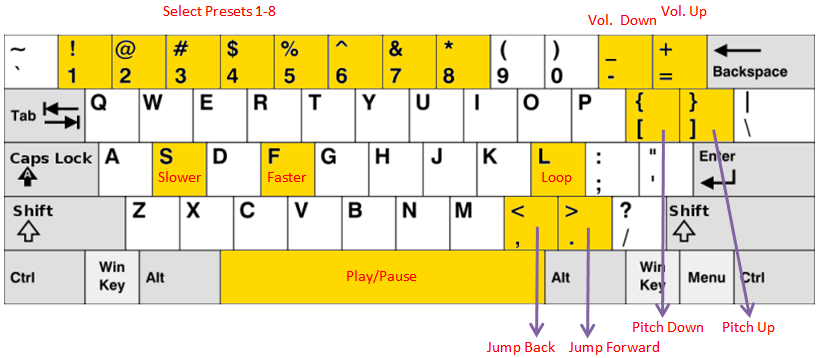
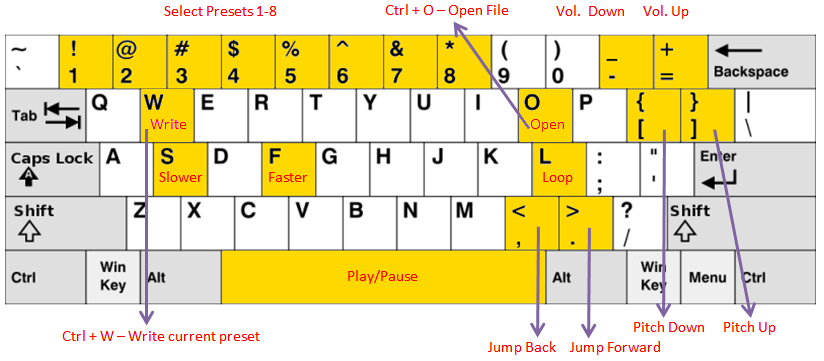
Added an immediate preset write use-case and also keyboard shortcut (Ctrl + W)

diff --git a/PracticeSharpApp/UI/MainForm.cs b/PracticeSharpApp/UI/MainForm.cs
@@ -340,15 +340,14 @@ namespace BigMansStuff.PracticeSharp.UI
             }
             // [ Pitch Down
             else if (!e.Control && !e.Alt && !e.Shift && e.KeyCode == Keys.OemOpenBrackets)
-            {
-                // 8 = 1 semi-tone (8/96 = 1/12)
-                pitchTrackBar.Value =  Math.Max(pitchTrackBar.Value - 8, pitchTrackBar.Minimum);
+            {              
+                pitchTrackBar.Value = Math.Max(pitchTrackBar.Value - TicksPerSemitone, pitchTrackBar.Minimum);
                 e.Handled = true;
             }
             // ] Pitch Up
             else if (!e.Control && !e.Alt && !e.Shift && e.KeyCode == Keys.OemCloseBrackets)
             {
-                pitchTrackBar.Value = Math.Min(pitchTrackBar.Value + 8, pitchTrackBar.Maximum);
+                pitchTrackBar.Value = Math.Min(pitchTrackBar.Value + TicksPerSemitone, pitchTrackBar.Maximum);
 
                 e.Handled = true;
             }
@@ -431,6 +430,12 @@ namespace BigMansStuff.PracticeSharp.UI
                 openFileButton.PerformClick();
                 e.Handled = true;
             }
+            // Ctrl + W - Immediate write of current preset
+            else if (e.Control && !e.Alt && !e.Shift && e.KeyCode == Keys.W)
+            {
+                ImmeidatelyWriteCurrentPreset();
+                e.Handled = true;
+            }
             // Space - Pause/Play
             else if (!e.Control && !e.Alt && !e.Shift && e.KeyCode == Keys.Space)
             {
@@ -449,7 +454,7 @@ namespace BigMansStuff.PracticeSharp.UI
                 aboutMenuItem.PerformClick();
                 e.Handled = true;
             }
-            // ALT+CTRL P - Toggle visibility of Time Stretch Profile' UI Controls
+            // ALT + CTRL P - Toggle visibility of Time Stretch Profile' UI Controls
             else if (e.Control && e.Alt && !e.Shift && e.KeyCode == Keys.P)
             {
                 timeStretchProfileLabel.Visible = !timeStretchProfileLabel.Visible;
@@ -694,20 +699,7 @@ namespace BigMansStuff.PracticeSharp.UI
                         presetControl.ChangeDescription();
                     }
 
-                    // Update the preset data with the values from the selected preset
-                    presetControl.PresetData.Tempo = m_practiceSharpLogic.Tempo;
-                    presetControl.PresetData.Pitch = m_practiceSharpLogic.Pitch;
-                    presetControl.PresetData.Volume = m_practiceSharpLogic.Volume;
-                    presetControl.PresetData.LoEqValue = m_practiceSharpLogic.EqualizerLoBand;
-                    presetControl.PresetData.MedEqValue = m_practiceSharpLogic.EqualizerMedBand;
-                    presetControl.PresetData.HiEqValue = m_practiceSharpLogic.EqualizerHiBand;
-                    presetControl.PresetData.CurrentPlayTime = m_practiceSharpLogic.CurrentPlayTime;
-                    presetControl.PresetData.StartMarker = m_practiceSharpLogic.StartMarker;
-                    presetControl.PresetData.EndMarker = m_practiceSharpLogic.EndMarker;
-                    presetControl.PresetData.Cue = m_practiceSharpLogic.Cue;
-                    presetControl.PresetData.Loop = m_practiceSharpLogic.Loop;
-                    presetControl.PresetData.Description = presetControl.PresetDescription;
-                    presetControl.PresetData.TimeStretchProfile = m_practiceSharpLogic.TimeStretchProfile;
+                    UpdatePresetValues(presetControl);
                 }
             }
 
@@ -858,7 +850,7 @@ namespace BigMansStuff.PracticeSharp.UI
         private void pitchTrackBar_ValueChanged(object sender, EventArgs e)
         {
             // Convert to Percent 
-            float newPitchSemiTones = pitchTrackBar.Value / 8.0f;
+            float newPitchSemiTones = pitchTrackBar.Value / TicksPerSemitone;
             // Assign new Pitch
             m_practiceSharpLogic.Pitch = newPitchSemiTones;
 
@@ -893,7 +885,7 @@ namespace BigMansStuff.PracticeSharp.UI
         /// <param name="e"></param>
         private void pitchLabel_Click(object sender, EventArgs e)
         {
-              pitchTrackBar.Value = Convert.ToInt32( PresetData.DefaultPitch * 100 );
+              pitchTrackBar.Value = Convert.ToInt32( PresetData.DefaultPitch );
         }
 
         /// <summary>
@@ -1973,7 +1965,7 @@ namespace BigMansStuff.PracticeSharp.UI
         {
             // Apply preset values
             tempoTrackBar.Value = Convert.ToInt32(presetData.Tempo * 100.0f);
-            pitchTrackBar.Value = Convert.ToInt32(presetData.Pitch * 96.0f);
+            pitchTrackBar.Value = Convert.ToInt32(presetData.Pitch * TicksPerSemitone);
             volumeTrackBar.Value = Convert.ToInt32(presetData.Volume * 100.0f);
             loEqTrackBar.Value = Convert.ToInt32(presetData.LoEqValue * 100.0f);
             loEqTrackBar_ValueChanged(this, new EventArgs());
@@ -2014,6 +2006,50 @@ namespace BigMansStuff.PracticeSharp.UI
                 }
             }
             timeStretchProfileComboBox.SelectedValue = presetData.TimeStretchProfile;
+        }
+
+        /// <summary>
+        /// Immediately writes the state into the currently selected preset, without going through the two-phase button write mechanism
+        /// </summary>
+        private void ImmeidatelyWriteCurrentPreset()
+        {
+            bool isPlaying = false;
+            if (m_practiceSharpLogic.Status == PracticeSharpLogic.Statuses.Playing)
+            {
+                m_practiceSharpLogic.Pause();
+                isPlaying = true;
+            }
+
+            m_currentPreset.State = PresetControl.PresetStates.Saving;
+
+            UpdatePresetValues(m_currentPreset);
+
+            // (Re-)Write preset bank file
+            RewritePresetsBankFile();
+
+            m_currentPreset.State = PresetControl.PresetStates.Selected;
+
+            if (isPlaying)
+                m_practiceSharpLogic.Play();
+        }
+
+
+        private void UpdatePresetValues(PresetControl presetControl)
+        {
+            // Update the preset data with the values from the selected preset
+            presetControl.PresetData.Tempo = m_practiceSharpLogic.Tempo;
+            presetControl.PresetData.Pitch = m_practiceSharpLogic.Pitch;
+            presetControl.PresetData.Volume = m_practiceSharpLogic.Volume;
+            presetControl.PresetData.LoEqValue = m_practiceSharpLogic.EqualizerLoBand;
+            presetControl.PresetData.MedEqValue = m_practiceSharpLogic.EqualizerMedBand;
+            presetControl.PresetData.HiEqValue = m_practiceSharpLogic.EqualizerHiBand;
+            presetControl.PresetData.CurrentPlayTime = m_practiceSharpLogic.CurrentPlayTime;
+            presetControl.PresetData.StartMarker = m_practiceSharpLogic.StartMarker;
+            presetControl.PresetData.EndMarker = m_practiceSharpLogic.EndMarker;
+            presetControl.PresetData.Cue = m_practiceSharpLogic.Cue;
+            presetControl.PresetData.Loop = m_practiceSharpLogic.Loop;
+            presetControl.PresetData.Description = presetControl.PresetDescription;
+            presetControl.PresetData.TimeStretchProfile = m_practiceSharpLogic.TimeStretchProfile;
         }
 
         #endregion
@@ -2075,7 +2111,7 @@ namespace BigMansStuff.PracticeSharp.UI
 
         const short JumpSeconds = 2;
 
-
+        const short TicksPerSemitone = 8; // 96 ticks are 12 semitones => each 8 ticks is one semitone
         #endregion
 
       

diff --git a/PracticeSharpApp/UI/PresetControl.Designer.cs b/PracticeSharpApp/UI/PresetControl.Designer.cs
@@ -62,7 +62,7 @@ namespace BigMansStuff.PracticeSharp.UI
             this.presetIdLabel.Anchor = ((System.Windows.Forms.AnchorStyles)((System.Windows.Forms.AnchorStyles.Top | System.Windows.Forms.AnchorStyles.Right)));
             this.presetIdLabel.AutoSize = true;
             this.presetIdLabel.Font = new System.Drawing.Font("Microsoft Sans Serif", 21.75F, System.Drawing.FontStyle.Regular, System.Drawing.GraphicsUnit.Point, ((byte)(0)));
-            this.presetIdLabel.Location = new System.Drawing.Point(77, 25);
+            this.presetIdLabel.Location = new System.Drawing.Point(80, 25);
             this.presetIdLabel.Name = "presetIdLabel";
             this.presetIdLabel.Size = new System.Drawing.Size(31, 33);
             this.presetIdLabel.TabIndex = 48;
@@ -76,7 +76,6 @@ namespace BigMansStuff.PracticeSharp.UI
             this.presetButton.BackColor = System.Drawing.Color.Transparent;
             this.presetButton.ButtonText = "";
             this.presetButton.CornerRadius = 2;
-            this.presetButton.GlowAlphaFactor = 128;
             this.presetButton.GlowColor = System.Drawing.Color.Red;
             this.presetButton.ImageSize = new System.Drawing.Size(16, 16);
             this.presetButton.Location = new System.Drawing.Point(1, 1);
@@ -88,7 +87,7 @@ namespace BigMansStuff.PracticeSharp.UI
             // ledPictureBox
             // 
             this.ledPictureBox.Anchor = ((System.Windows.Forms.AnchorStyles)((System.Windows.Forms.AnchorStyles.Top | System.Windows.Forms.AnchorStyles.Right)));
-            this.ledPictureBox.Location = new System.Drawing.Point(84, 5);
+            this.ledPictureBox.Location = new System.Drawing.Point(87, 5);
             this.ledPictureBox.Name = "ledPictureBox";
             this.ledPictureBox.Size = new System.Drawing.Size(16, 16);
             this.ledPictureBox.TabIndex = 50;

diff --git a/PracticeSharpApp/Core/PresetData.cs b/PracticeSharpApp/Core/PresetData.cs
@@ -92,7 +92,7 @@ namespace BigMansStuff.PracticeSharp.Core
         #region Constants
 
         public const float DefaultTempo = 1.0f; // 1 = 100%/regular speed
-        public const float DefaultPitch = 0.0f; // 0 = Regular pitch
+        public const int DefaultPitch = 0; // 0 = Regular pitch, in semi-tones
 
         public const float DefaultLoEq = 0;
         public const float DefaultMedEq = 0;
